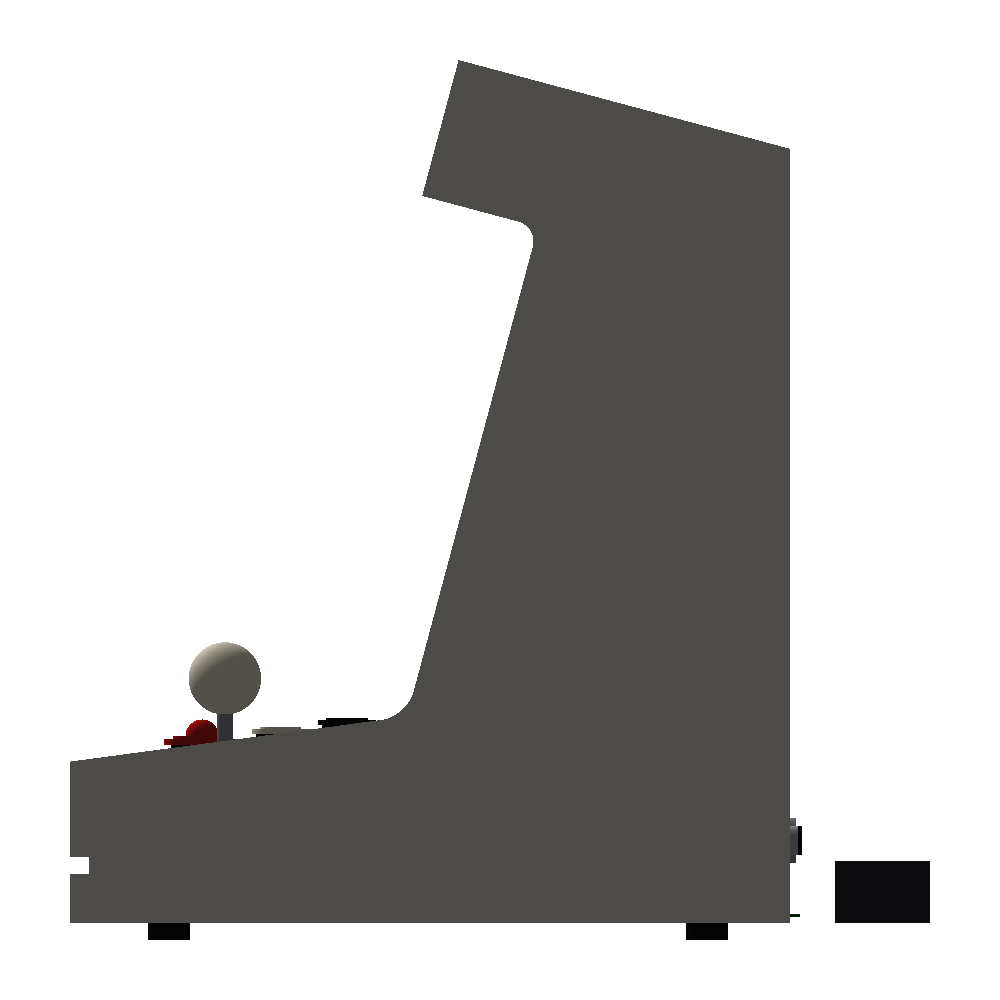
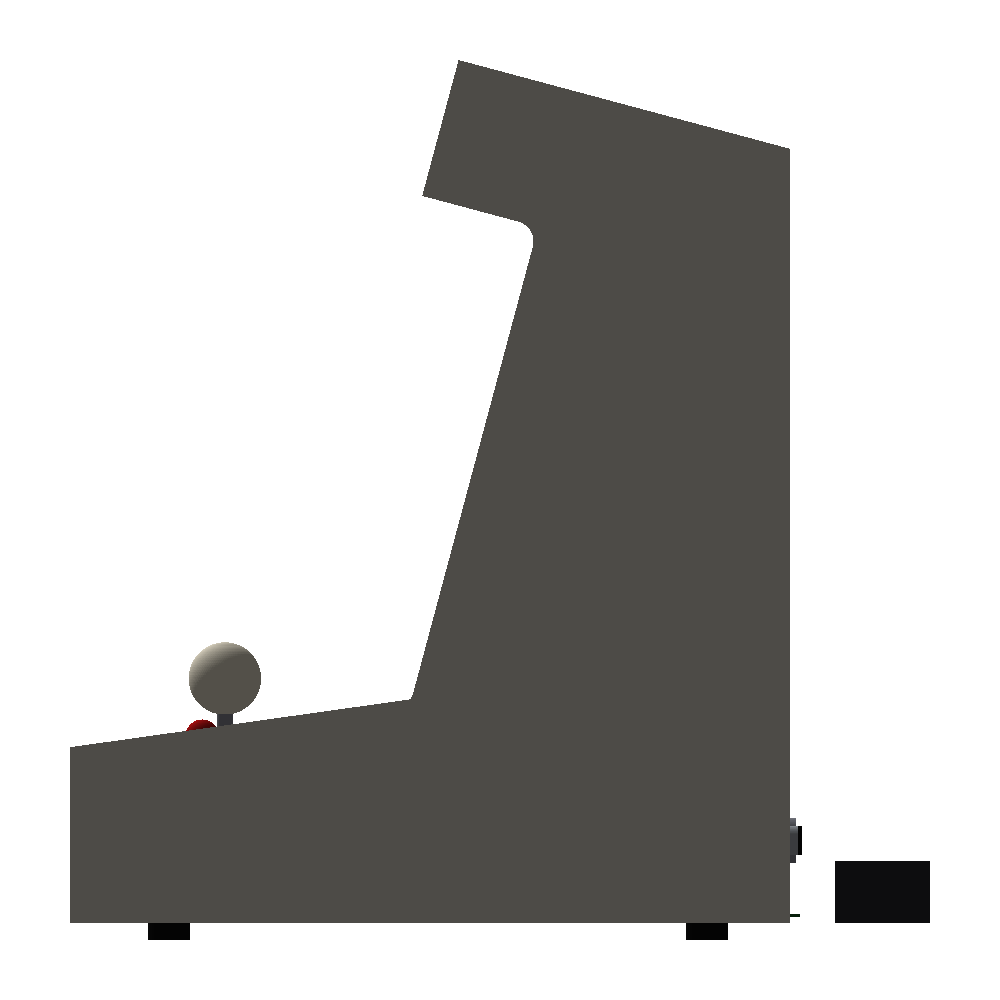
hardware: iteration 20 — cheeks as a uniform engineered buffer
- cheek_profile(): true parallel-curve offset of the front contour —
  deck edge offsets 8 mm along its normal (controls sit in a shallow
  tray between raised cheek rails), nose face 8 mm forward, corner
  radii grow by the offset so the buffer is constant around corners
- remove the plinth groove (it notched the proud cheek fronts; the
  cheek edges do its visual job now)
- chin datum groove narrowed to 328 mm, stops short of the cheeks
- panels.py side plates consume the same cheek_profile() — monocoque
  and flat-pack paths can no longer render different builds
- chain green: solid valid, 0.000 mm^3 seams, panels + deck guard OK,
  assembly 28 components

Changed region(s): [[0.062, 0.682, 0.403, 0.775], [0.062, 0.837, 0.093, 0.899]]

diff --git a/hardware/cabinet.py b/hardware/cabinet.py
@@ -102,9 +102,8 @@ PARAMS = {
     "reveal_width": 2.5,           # mm reveal ring width (shadow-gap read)
     "reveal_depth": 1.2,           # mm reveal groove depth
     # --- fascia -----------------------------------------------------------
-    "plinth_z_bottom": 24.0,       # mm plinth groove bottom above base
-    "plinth_height": 8.0,          # mm groove height
-    "plinth_depth": 1.5,           # mm groove depth
+    # (the plinth groove was removed in iter 20: the proud cheek edges do
+    # its visual job now, and it notched the cheek fronts)
     # --- controls -------------------------------------------------------
     "players": 1,
     "cluster_offset_x": -8.0,      # recenters the asymmetric cluster (stick-left)
@@ -226,6 +225,50 @@ def side_profile(p):
     return profile, radii, info
 
 
+def _line_intersect(p1, d1, p2, d2):
+    """Intersection of lines p1+t*d1, p2+s*d2 (2D, y/z tuples)."""
+    det = d1[0] * (-d2[1]) - (-d2[0]) * d1[1]
+    rhs = (p2[0] - p1[0], p2[1] - p1[1])
+    t = (rhs[0] * (-d2[1]) - (-d2[0]) * rhs[1]) / det
+    return (p1[0] + t * d1[0], p1[1] + t * d1[1])
+
+
+def cheek_profile(p):
+    """Side-cheek / side-plate outline: the base silhouette with the front
+    contour offset outward by cheek_front_overhang — a uniform engineered
+    buffer around the front matter.
+
+    The deck edge offsets along its outward normal (the cheeks stand proud
+    of the deck surface, so the controls sit in a shallow tray) and the
+    nose face offsets straight forward; the nose corner radii grow by the
+    offset, keeping the buffer width constant around the corners. Returns
+    (profile, radii) in the same format as side_profile().
+    """
+    profile, radii, info = side_profile(p)
+    ov = p["cheek_front_overhang"]
+    if ov <= 0:
+        return profile, dict(radii)
+
+    seam, nose_top = profile[6], profile[7]
+    d_len = math.hypot(nose_top[0] - seam[0], nose_top[1] - seam[1])
+    d = ((nose_top[0] - seam[0]) / d_len, (nose_top[1] - seam[1]) / d_len)
+    n = (-d[1], d[0])  # deck outward normal (up); deck runs seam -> nose
+    if n[1] < 0:
+        n = (-n[0], -n[1])
+    off_seam = (seam[0] + n[0] * ov, seam[1] + n[1] * ov)
+    # offset deck edge meets the display-face edge just past the seam, and
+    # the forward-shifted nose face at the raised front corner
+    v_seam = _line_intersect(off_seam, d, seam, (info["sin_t"], info["cos_t"]))
+    v_nose = _line_intersect(off_seam, d, (-ov, 0.0), (0.0, 1.0))
+
+    new_profile = [(-ov, 0.0)] + profile[1:6] + [v_seam, v_nose]
+    new_radii = dict(radii)
+    new_radii[0] = p["r_nose_bottom"] + ov
+    new_radii[6] = None  # lip meets the face past the seam: sharp corner
+    new_radii[7] = p["r_nose_top"] + ov
+    return new_profile, new_radii
+
+
 def _rounded_cutter(plane, y_ctr, w, d, h, r):
     """Box built on a face frame with its in-plane corners filleted.
 
@@ -284,21 +327,22 @@ def build_cabinet(p=None):
         print(f"  ! vertical corner fillet skipped: {exc}")
     solid = solid.hollow([], -p["wall"])
 
-    # --- side cheeks: full-silhouette plates proud of the nose fascia -----
-    # Sheet-metal side-plate look: the cheeks frame the front of the machine
-    # and the nose fascia sits recessed between them. Outer face flush with
-    # the shell sides, plate embedded 1 mm into the wall so it always fuses.
-    ov, ct = p["cheek_front_overhang"], p["cheek_thickness"]
-    cheek_profile = [(y - ov if abs(y) < 1e-9 else y, z) for y, z in profile]
+    # --- side cheeks: full-silhouette plates proud of the front matter ----
+    # Sheet-metal side-plate look: the cheeks overhang the nose fascia and
+    # stand proud of the deck surface by a uniform buffer (cheek_profile),
+    # so the front of the machine reads framed with an even, precise gap.
+    # Outer face flush with the shell sides, embedded 1 mm into the wall.
+    ct = p["cheek_thickness"]
+    cheek_pts, cheek_radii = cheek_profile(p)
     for sx in (-1, 1):
         with BuildSketch(Plane.YZ) as csk:
             with BuildLine():
-                Polyline(cheek_profile, close=True)
+                Polyline(cheek_pts, close=True)
             make_face()
-            for idx, radius in radii.items():
+            for idx, radius in cheek_radii.items():
                 if radius is None:
                     continue
-                y, z = cheek_profile[idx]
+                y, z = cheek_pts[idx]
                 vtx = csk.vertices().filter_by(
                     lambda v, y=y, z=z: abs(v.Y - y) < 1.0 and abs(v.Z - z) < 1.0
                 )
@@ -364,24 +408,14 @@ def build_cabinet(p=None):
     )
     solid -= ring_outer - ring_inner
 
-    # chin datum groove: full-width shadow line just under the hood chin,
-    # separating marquee and display zones and hiding the construction seam
+    # chin datum groove: shadow line on the display face just under the
+    # hood chin, separating marquee and display zones. Width stops short
+    # of the cheeks so their silhouette edges stay clean (matches the
+    # flat-pack path, where the groove lives on the face panel only).
     gw, gd = p["chin_groove_width"], p["chin_groove_depth"]
     solid -= face * Pos(
         0, gd / 2 - 0.2, p["display_face_length"] - p["chin_groove_drop"]
-    ) * Box(p["cabinet_width"] + 2, gd + 0.4, gw)
-
-    # recessed plinth line across the front fascia (extended forward so the
-    # line wraps onto the proud cheek front faces too)
-    solid -= Pos(
-        0,
-        p["plinth_depth"] / 2 - 0.5 - p["cheek_front_overhang"] / 2,
-        p["plinth_z_bottom"] + p["plinth_height"] / 2,
-    ) * Box(
-        p["cabinet_width"] + 2,
-        p["plinth_depth"] + 1.0 + p["cheek_front_overhang"],
-        p["plinth_height"],
-    )
+    ) * Box(p["cabinet_width"] - 2 * p["cheek_thickness"] - 4, gd + 0.4, gw)
 
     # --- rear I/O cutouts (through the back wall) --------------------------
     back_y = p["cabinet_depth_base"]

diff --git a/hardware/panels.py b/hardware/panels.py
@@ -35,7 +35,7 @@ from build123d import (
     make_face,
 )
 
-from cabinet import OUT_DIR, PARAMS as CAB, side_profile
+from cabinet import OUT_DIR, PARAMS as CAB, cheek_profile, side_profile
 from render import render_parts
 
 PANELS_DIR = OUT_DIR / "panels"
@@ -324,10 +324,9 @@ def main():
     PANELS_DIR.mkdir(parents=True, exist_ok=True)
     profile, radii, info = side_profile(CAB)
     segs = seg_data(profile)
-    # side plates carry the cheek overhang: proud of the nose/bottom front
-    # edges, matching the monocoque cheeks (wrap panels stay on the profile)
-    ov = CAB["cheek_front_overhang"]
-    side_pts = [(y - ov if abs(y) < 1e-9 else y, z) for y, z in profile]
+    # side plates carry the cheek outline: the uniform proud buffer around
+    # the front matter, identical to the monocoque cheeks
+    side_pts, side_radii = cheek_profile(CAB)
     t = PP["panel_thickness"]
 
     parts = {}
@@ -346,7 +345,9 @@ def main():
         cleat_pts.append(ctr)
 
     for side, sname in ((-1, "l"), (1, "r")):
-        parts[f"side_{sname}"] = make_side_plate(side_pts, radii, cleat_pts, side)
+        parts[f"side_{sname}"] = make_side_plate(
+            side_pts, side_radii, cleat_pts, side
+        )
 
     # --- deck hole-position guard (a y-mirror bug slipped through the
     # visuals once; verify holes land at layout positions, world coords) ---

diff --git a/hardware/design-notes.md b/hardware/design-notes.md
@@ -338,3 +338,23 @@ switch, PSU, inserts, feet) — then an assembled render with the enclosure.
   guard OK, assembly 28 components. Watch: cheek front vertical edges are
   sharp 3D edges (2D silhouette radii only) — fine for sheet metal, may
   want a small 3D fillet for the print path.
+- Iteration 20 (2026-08-19, archived `iter-020` / `asm-018`): **cheeks v2 —
+  uniform engineered buffer**. User feedback: the iter-19 cheeks (nose
+  points simply shifted forward) left a tapered ~1 mm sliver where the
+  cheek top edge met the deck — read as sloppy tolerancing — and the old
+  plinth groove notched the proud cheek fronts ("weird notch"). Rework:
+  `cheek_profile()` in cabinet.py does a true parallel-curve offset of
+  the whole front contour: deck edge offsets 8 mm along its outward
+  normal (controls now sit in a shallow tray between raised cheek rails,
+  like the cream reference), nose face offsets 8 mm straight forward,
+  nose corner radii grow by the offset (R30 bottom / R26 top) so the
+  buffer stays constant around the corners; the raised lip meets the
+  display-face edge just past the seam (computed line intersection).
+  Plinth groove REMOVED (params + cutter) — the cheek edges do its
+  visual job now. Chin datum groove narrowed to 328 mm so it stops short
+  of the cheeks. panels.py side plates now consume the same
+  cheek_profile() — monocoque and flat-pack cannot drift apart again
+  (user caught the two paths rendering different builds). Chain green:
+  solid valid, 0.000 mm^3 seams, panels valid + deck guard OK, assembly
+  28 components. Verified numerically: cheek nose top (-8, 85.17) vs
+  deck surface 78.22 at y=0 — exactly 8 mm perpendicular.

diff --git a/docs/HARDWARE.md b/docs/HARDWARE.md
@@ -31,9 +31,12 @@ without restructuring the model.
   15° from vertical. First-party games render 3:2 native, edge to edge.
 - Envelope **340 × 348 × 417 mm** — the 1P pivot let the screen fill ~84%
   of the face (the 2P version capped at ~49% because the controls set the
-  width floor). Full-silhouette **side cheek plates** frame the front,
-  jutting 8 mm past the recessed nose fascia (the sheet-metal side-plate
-  look; the flat-pack path shares the same overhang).
+  width floor). Full-silhouette **side cheek plates** frame the front: a
+  uniform 8 mm buffer around the front matter — proud of the deck surface
+  (the controls sit in a shallow tray) and proud of the recessed nose
+  fascia — with corner radii grown by the offset so the gap stays
+  constant around the corners (the sheet-metal side-plate look; the
+  flat-pack path shares the same overhang).
 - 90°-bend hood box (floor/top perpendicular to the display face) with
   down-firing speaker slots in the hood floor and a magnetic swappable
   nameplate inlay on the marquee face.
